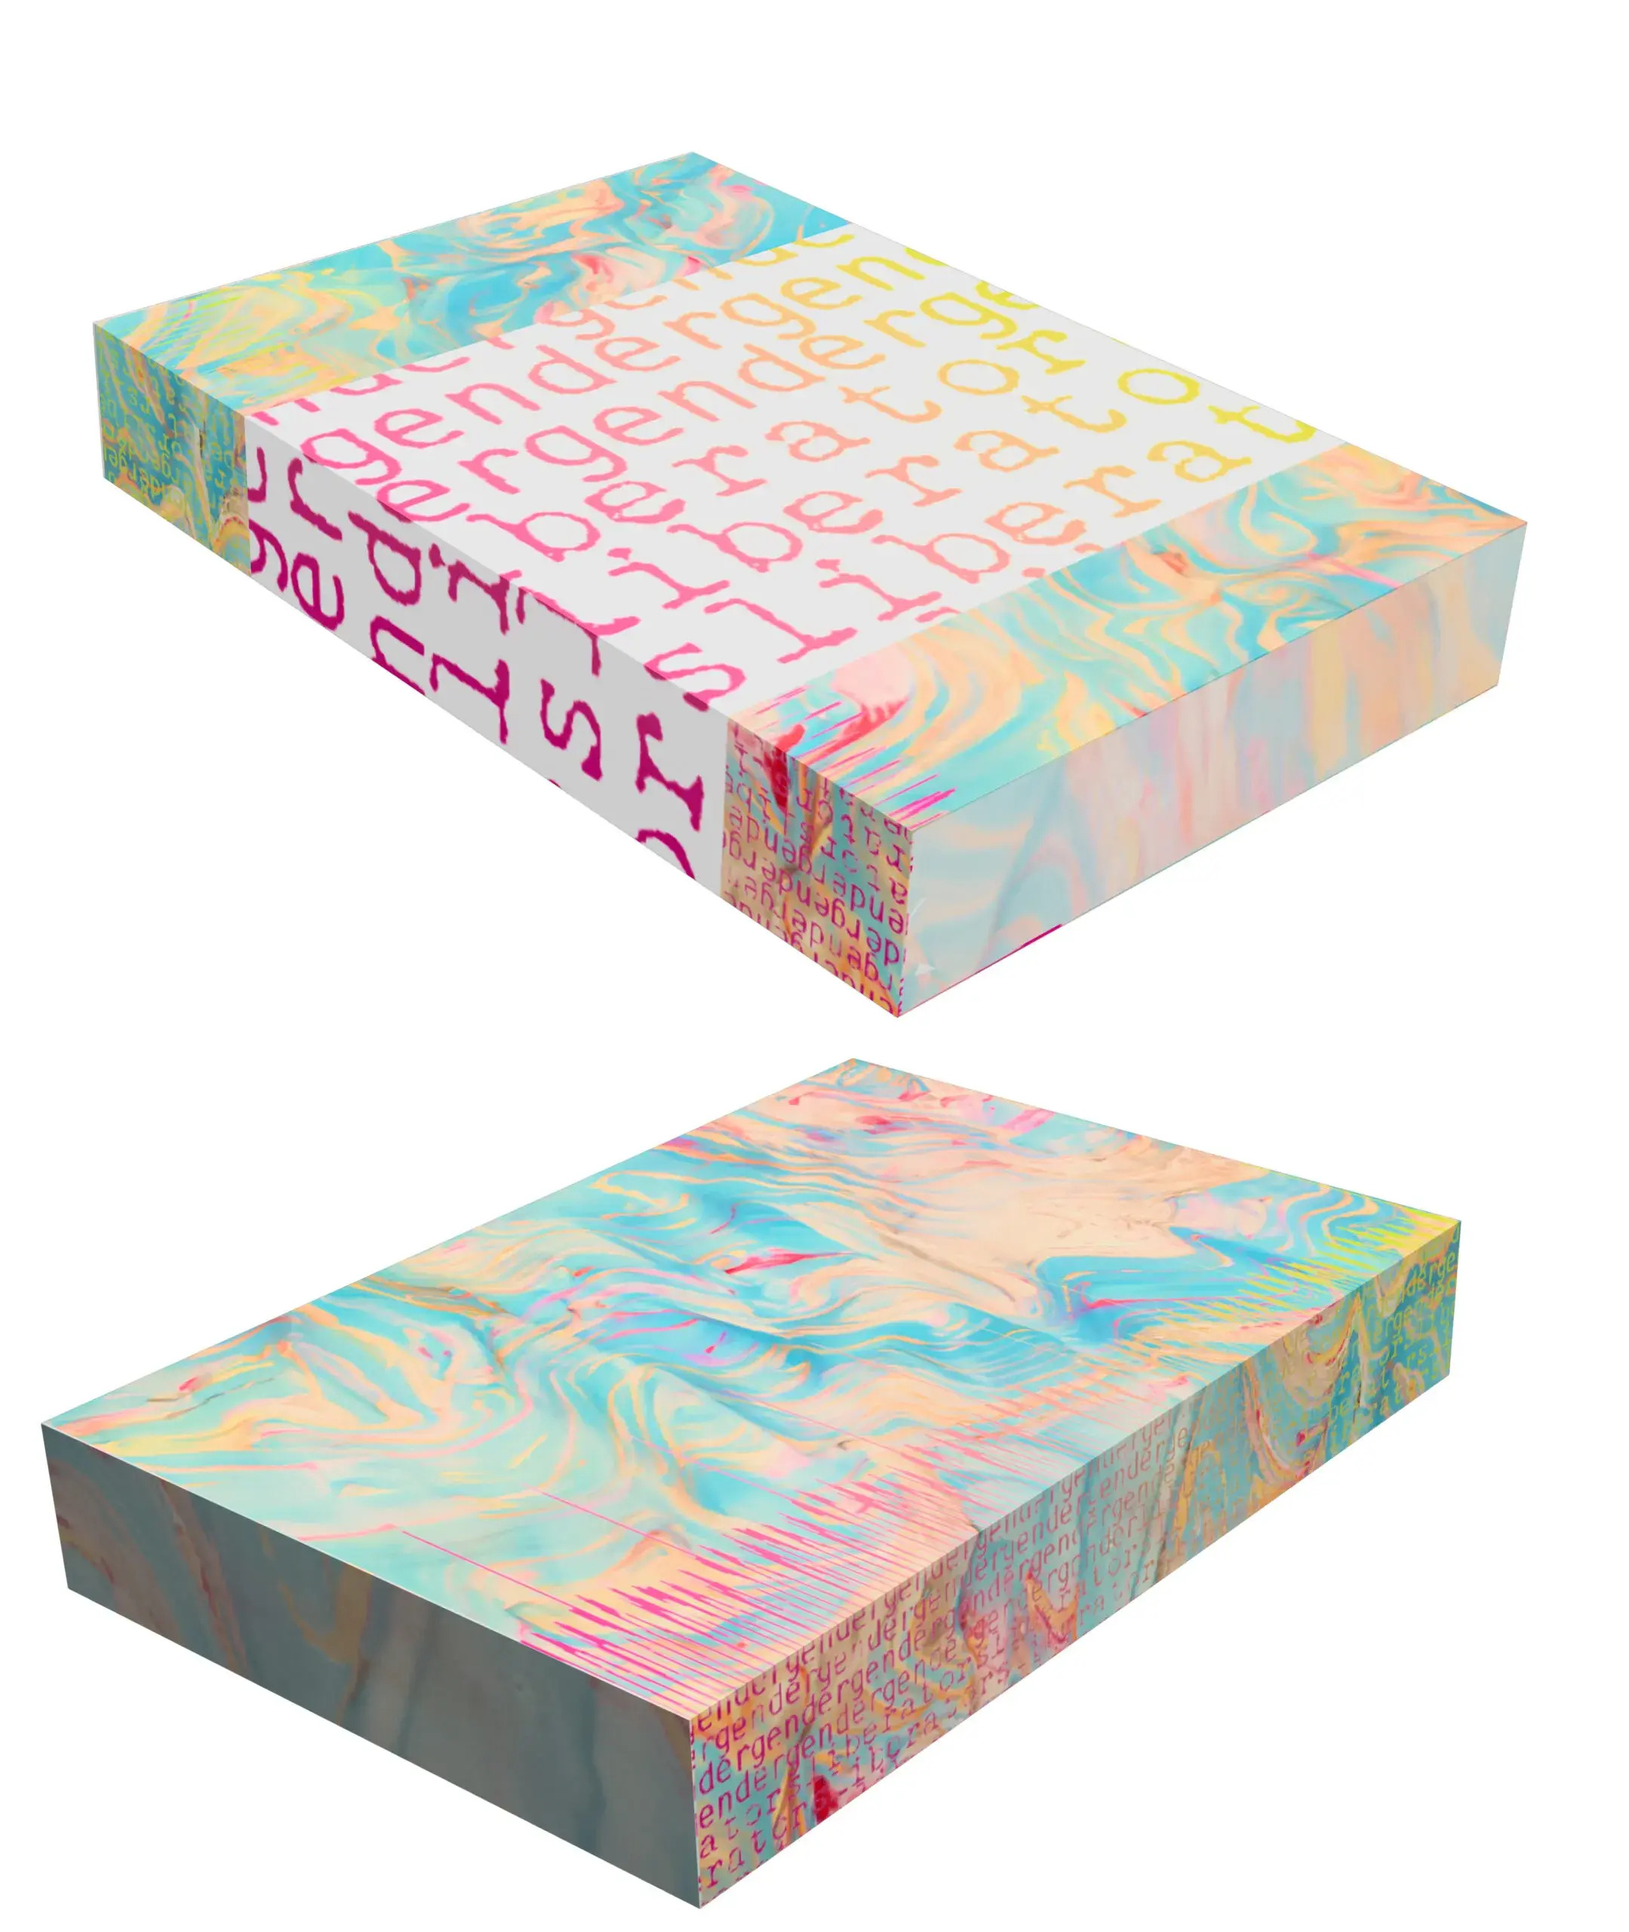
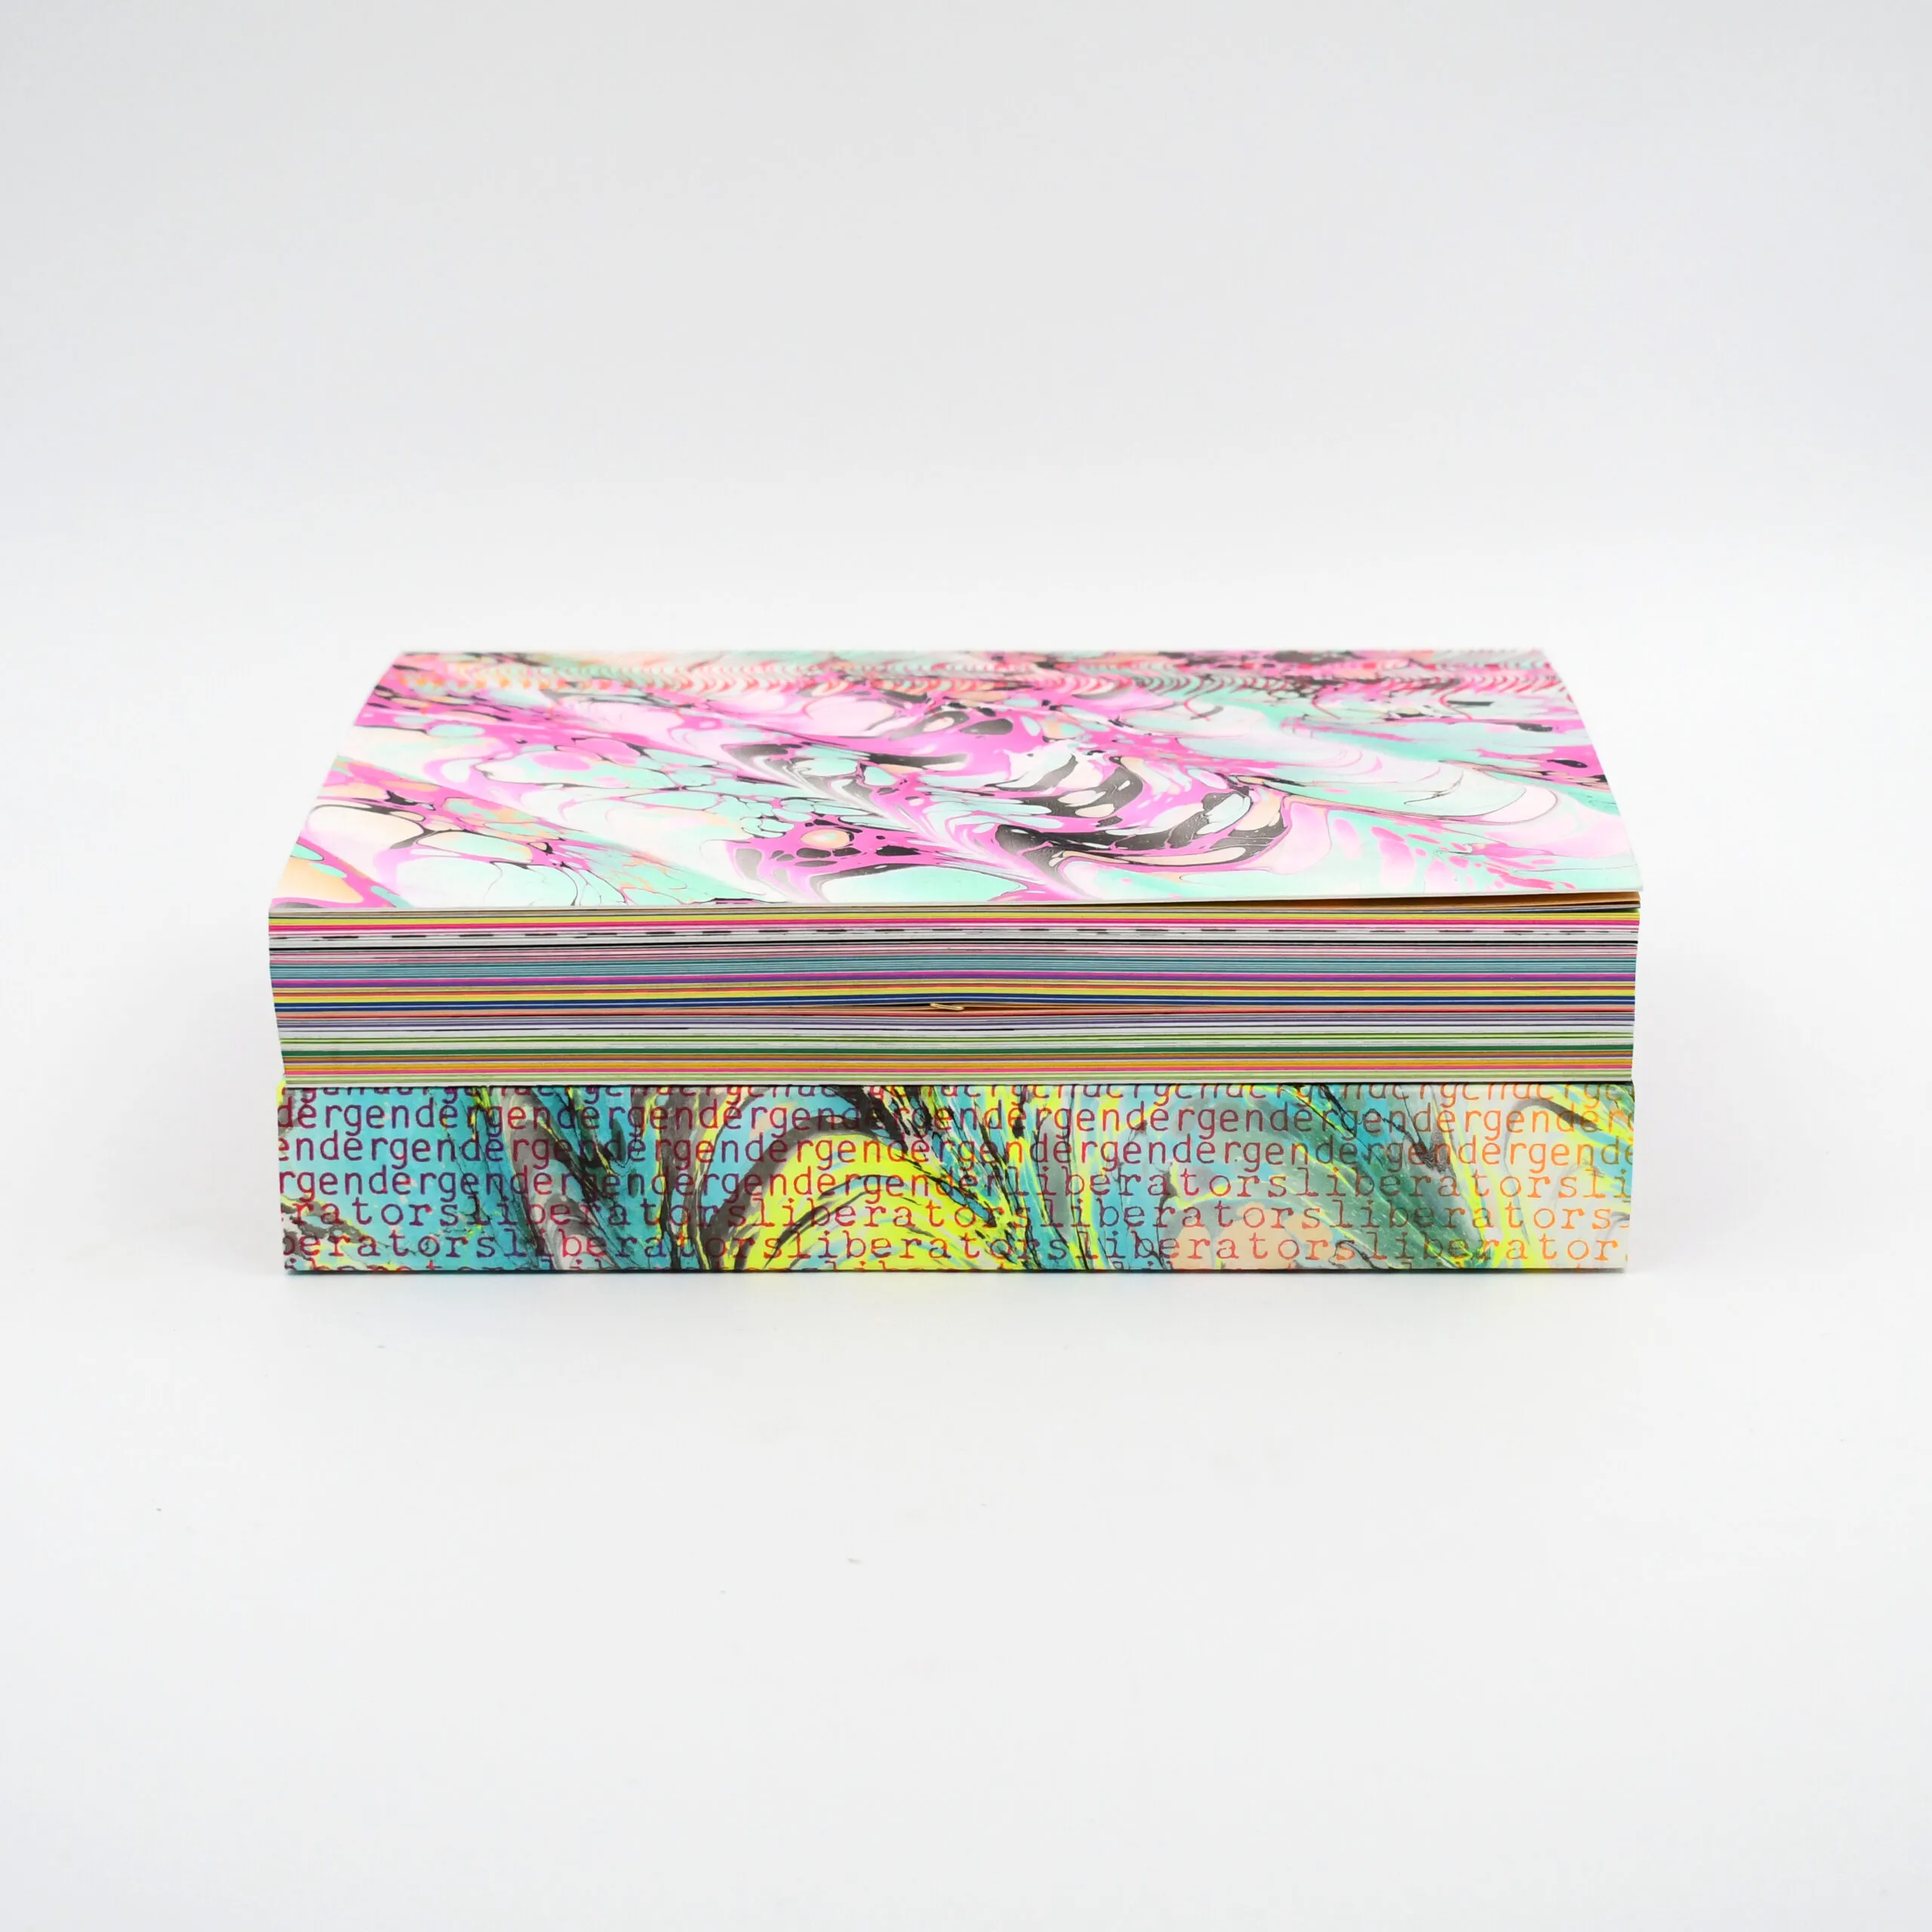
New gender liberators images

diff --git a/_work/gender-liberators.md b/_work/gender-liberators.md
@@ -3,13 +3,16 @@ title:  "gender liberators"
 permalink: "/"
 ---
 
-<img src="/assets/gender liberators 1.jpg" alt="gender liberators (digital mockup)" />
+<img src="/assets/gender liberators 3.jpg" alt="gender liberators (book edges)" />
 
-<img src="/assets/gender liberators 2.jpg" alt="gender liberators (closeup of marbled paper)" />
+<img src="/assets/gender liberators 2.jpg" alt="gender liberators (pages open)" />
 
-<img src="/assets/gender liberators 5.jpg" alt="gender liberators (process shot of marbling)" />
+<img src="/assets/gender liberators 1.jpg" alt="gender liberators (closeup of spine)" />
 
-<img src="/assets/gender liberators 6.jpg" alt="gender liberators (closeup of uncut pages)" />
+<img src="/assets/gender liberators 4.jpg" alt="gender liberators (marbling the covers)" />
+
+<img src="/assets/gender liberators 5.jpg" alt="gender liberators (closeup of uncut pages)" />
+
 
 *gender liberators* is an anthology of writing, poetry, correspondence, photos, paintings, flyers, and other ephemera by trans\*, two-spirit, nonbinary, and trans-adjacent authors and creators from 20th century turtle island/North America. The materials in this book were identified and selected based on hundreds of interviews that I have conducted with elders, archivists, scholars, and cultural workers about their lives and work, and about moments, individuals, and groups that were deeply influential but have been underappreciated in accounts of trans* history. Through this community guidance, this anthology centers the perspectives and visual and print culture of trans and queer life, and resists some of the biases of existing histories and archives that under represent the geographic South and Midwest, trans* communities of color, and trans masculine communities. This book seeks to let the included authors and materials speak for themselves and dialogue with each other, while honoring the multiplicity of voices, formats, and perspectives included: *gender liberators* is printed on more than a dozen different paper colors with multiple inks and printing techniques including risograph, letterpress, digital offset, and traditional paper marbling. The cover wrap includes a citation for each image in the book as well as an index for researchers.
 
